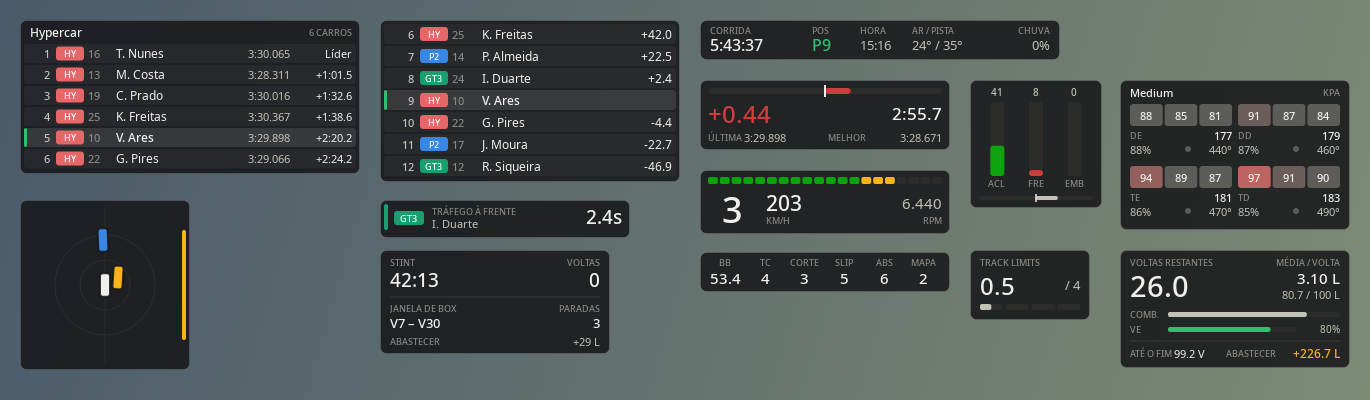
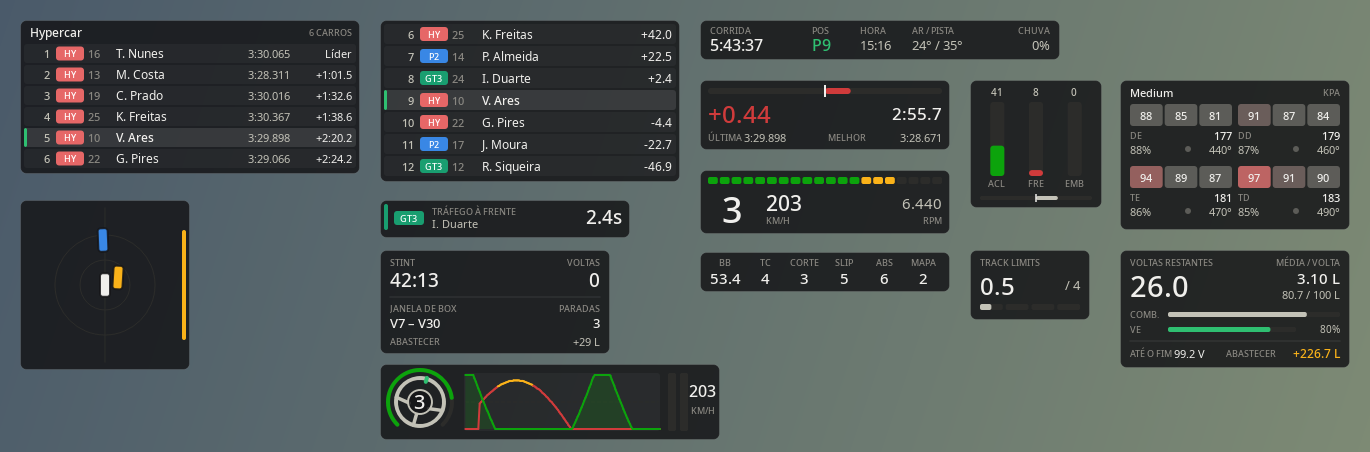
feat(widgets): widget Volante e inputs
Volante que gira conforme o giro configurado, com a marcha no centro e um
anel de RPM que pisca no ponto de troca; ao lado, gráfico rolando do
acelerador e do freio nos últimos segundos, em amarelo quando ABS ou TC
atuam, e as barras atuais com a velocidade. Desligado por padrão.

Entra na v0.3.0-beta.1 (CHANGELOG e roteiro de teste atualizados).

diff --git a/dmt_overlay/widgets/volante.py b/dmt_overlay/widgets/volante.py
@@ -1,0 +1,153 @@
+from __future__ import annotations
+
+from collections import deque
+
+from PySide6.QtCore import QPointF, QRectF, Qt
+from PySide6.QtGui import QColor, QPainter, QPainterPath, QPen
+
+from .. import tema
+from .base import CENTRO, Opcao, WidgetOverlay, barra, rotulo, texto
+from .motor import nome_marcha
+
+# Pontos guardados por segundo de gráfico; o widget recebe mais quadros que isso.
+AMOSTRAS_POR_SEGUNDO = 30
+# Com folga: o timer de 30 Hz bate a cada ~33 ms e não pode perder um quadro sim, outro não.
+INTERVALO_AMOSTRA = 0.8 / AMOSTRAS_POR_SEGUNDO
+
+
+def angulo_volante(volante: float, giro: float) -> float:
+    """Graus para desenhar o volante: -1..1 do jogo vira metade do giro para cada lado."""
+    return max(-1.0, min(1.0, volante)) * giro / 2
+
+
+def cor_rpm(fracao: float, troca: float) -> QColor:
+    if fracao >= troca * 0.97:
+        return tema.CRITICO
+    if fracao >= troca * 0.85:
+        return tema.ALERTA
+    return tema.BOM
+
+
+class Volante(WidgetOverlay):
+    nome = "volante"
+    titulo = "Volante e inputs"
+    largura = 340
+    altura = 76
+    posicao_padrao = (790, 960)
+    ativo_padrao = False
+    opcoes_padrao = {"janela": 5.0, "giro": 540, "luz_troca": 0.94, "unidade_velocidade": "kmh"}
+    descricao = "Volante girando com a marcha no centro, anel de RPM e o gráfico do acelerador e freio nos últimos segundos."
+    opcoes = {
+        "janela": Opcao("Tempo no gráfico", "Quantos segundos de acelerador e freio aparecem.", 2, 10, 1, " s"),
+        "giro": Opcao("Giro do volante", "Use o mesmo do carro no jogo para o desenho bater.", 180, 1080, 10, "°"),
+        "luz_troca": Opcao("Luz de troca", "Porcentagem do RPM máximo em que o anel pisca.", 80, 99, 1, "%", fator=100),
+        "unidade_velocidade": Opcao("Velocidade em", escolhas=(("kmh", "km/h"), ("mph", "mph"))),
+    }
+
+    def __init__(self, *args, **kwargs) -> None:
+        self._historico: deque[tuple[float, float, float, bool, bool]] = deque()
+        super().__init__(*args, **kwargs)
+
+    def reconfigurar(self) -> None:
+        self._historico.clear()
+        super().reconfigurar()
+
+    def preparar(self, quadro):
+        j = quadro.estado.jogador
+        agora = quadro.instante
+        janela = self.config["janela"]
+        if not self._historico or agora - self._historico[-1][0] >= INTERVALO_AMOSTRA or agora < self._historico[-1][0]:
+            self._historico.append((agora, j.acelerador, j.freio, j.tc_ativo, j.abs_ativo))
+        while self._historico and (agora - self._historico[0][0] > janela or self._historico[0][0] > agora):
+            self._historico.popleft()
+        # Posição no gráfico de 0 (mais antigo) a 1 (agora), arredondada para não redesenhar à toa.
+        pontos = tuple(
+            (round(1 - (agora - t) / janela, 3), round(a, 2), round(f, 2), tc, abs_)
+            for t, a, f, tc, abs_ in self._historico
+        )
+        fator = 3.6 if self.config["unidade_velocidade"] == "kmh" else 2.23694
+        fracao = j.rpm / j.rpm_max if j.rpm_max > 0 else 0.0
+        piscar = fracao >= self.config["luz_troca"] and int(agora * 8) % 2 == 0
+        return (
+            round(angulo_volante(j.volante, self.config["giro"])),
+            j.marcha,
+            round(fracao, 3),
+            piscar,
+            round(j.acelerador, 2),
+            round(j.freio, 2),
+            round(j.velocidade * fator),
+            pontos,
+        )
+
+    def desenhar(self, p: QPainter, dados) -> None:
+        angulo, marcha, fracao, piscar, acel, freio, velocidade, pontos = dados
+        self._desenhar_volante(p, QPointF(40, self.altura / 2), angulo, marcha, fracao, piscar)
+        self._desenhar_grafico(p, QRectF(84, 9, 196, self.altura - 18), pontos)
+        topo, base = 9.0, self.altura - 9.0
+        barra(p, QRectF(288, topo, 8, base - topo), acel, tema.ACELERADOR, vertical=True, raio=2)
+        barra(p, QRectF(300, topo, 8, base - topo), freio, tema.FREIO, vertical=True, raio=2)
+        texto(p, QRectF(308, 14, 30, 26), str(velocidade), tema.TEXTO, 12, True, CENTRO)
+        rotulo(p, QRectF(308, 40, 30, 12), "km/h" if self.config["unidade_velocidade"] == "kmh" else "mph", CENTRO)
+
+    def _desenhar_volante(self, p: QPainter, centro: QPointF, angulo: float, marcha: int, fracao: float, piscar: bool) -> None:
+        raio_anel = 32.0
+        caixa_anel = QRectF(centro.x() - raio_anel, centro.y() - raio_anel, raio_anel * 2, raio_anel * 2)
+        # Anel de RPM: 270° abrindo embaixo, enche no sentido horário.
+        p.setBrush(Qt.BrushStyle.NoBrush)
+        p.setPen(QPen(tema.TRILHO, 4, Qt.PenStyle.SolidLine, Qt.PenCapStyle.RoundCap))
+        p.drawArc(caixa_anel, 225 * 16, -270 * 16)
+        if fracao > 0:
+            troca = self.config["luz_troca"]
+            cor = (tema.CRITICO if piscar else tema.TRILHO) if fracao >= troca else cor_rpm(fracao, troca)
+            p.setPen(QPen(cor, 4, Qt.PenStyle.SolidLine, Qt.PenCapStyle.RoundCap))
+            p.drawArc(caixa_anel, 225 * 16, round(-270 * 16 * min(1.0, fracao / troca)))
+
+        p.save()
+        p.translate(centro)
+        p.rotate(angulo)
+        r = 24.0
+        p.setPen(QPen(tema.TEXTO_SECUNDARIO, 4))
+        p.drawEllipse(QPointF(0, 0), r, r)
+        p.setPen(QPen(tema.TEXTO_SECUNDARIO, 3.5, Qt.PenStyle.SolidLine, Qt.PenCapStyle.RoundCap))
+        for x1, y1, x2, y2 in ((-r, 2, -10, 4), (r, 2, 10, 4), (0, 12, 0, r)):
+            p.drawLine(QPointF(x1, y1), QPointF(x2, y2))
+        # Marca de centro no topo do aro, para ver o quanto o volante girou.
+        p.setPen(QPen(tema.DESTAQUE, 4, Qt.PenStyle.SolidLine, Qt.PenCapStyle.RoundCap))
+        p.drawLine(QPointF(0, -r - 1), QPointF(0, -r + 3))
+        # Miolo sólido para a marcha não brigar com os raios.
+        p.setPen(QPen(tema.TEXTO_SECUNDARIO, 2))
+        p.setBrush(tema.FUNDO_FIM)
+        p.drawEllipse(QPointF(0, 0), 12, 12)
+        p.restore()
+
+        cor_marcha = tema.CRITICO if piscar else tema.TEXTO
+        texto(p, QRectF(centro.x() - 12, centro.y() - 12, 24, 22), nome_marcha(marcha), cor_marcha, 15, True, CENTRO)
+
+    def _desenhar_grafico(self, p: QPainter, area: QRectF, pontos) -> None:
+        p.setPen(Qt.PenStyle.NoPen)
+        p.setBrush(tema.FUNDO_LINHA)
+        p.drawRoundedRect(area, 3, 3)
+        p.setPen(QPen(tema.TRILHO, 1, Qt.PenStyle.DashLine))
+        meio = area.top() + area.height() / 2
+        p.drawLine(QPointF(area.left() + 2, meio), QPointF(area.right() - 2, meio))
+        if len(pontos) < 2:
+            return
+
+        def ponto(x: float, valor: float) -> QPointF:
+            return QPointF(area.left() + x * area.width(), area.bottom() - 2 - valor * (area.height() - 4))
+
+        # Preenchimento leve embaixo do acelerador, para ler de longe.
+        preenchido = QPainterPath(ponto(pontos[0][0], 0))
+        for x, a, *_ in pontos:
+            preenchido.lineTo(ponto(x, a))
+        preenchido.lineTo(ponto(pontos[-1][0], 0))
+        cor_fundo = QColor(tema.ACELERADOR)
+        cor_fundo.setAlpha(45)
+        p.fillPath(preenchido, cor_fundo)
+
+        # Freio e acelerador; o trecho fica amarelo quando o ABS ou o TC está atuando.
+        for indice, cor, indice_alerta in ((2, tema.FREIO, 4), (1, tema.ACELERADOR, 3)):
+            for anterior, atual in zip(pontos, pontos[1:], strict=False):
+                alerta = atual[indice_alerta]
+                p.setPen(QPen(tema.ALERTA if alerta else cor, 2, Qt.PenStyle.SolidLine, Qt.PenCapStyle.RoundCap))
+                p.drawLine(ponto(anterior[0], anterior[indice]), ponto(atual[0], atual[indice]))

diff --git a/scripts/previa.py b/scripts/previa.py
@@ -32,6 +32,7 @@ LAYOUT = {
     "multiclasse": (380, 200),
     "stint": (380, 250),
     "radar": (20, 200),
+    "volante": (380, 364),
 }
 
 
@@ -69,7 +70,7 @@ def main() -> None:
     quadro = Quadro(estado, resumo, 0.0, estrategia.atualizar(estado, resumo))
 
     config = Config(Path(tempfile.mkdtemp()) / "config.json")
-    largura, altura = round(1370 * escala), round(400 * escala)
+    largura, altura = round(1370 * escala), round(452 * escala)
     tela = QPixmap(largura, altura)
     p = QPainter(tela)
     gradiente = QLinearGradient(0, 0, largura, altura)
@@ -78,7 +79,17 @@ def main() -> None:
     p.fillRect(tela.rect(), gradiente)
     for classe in WIDGETS:
         widget = classe(config.widget(classe.nome, classe.padrao()), escala)
-        widget.atualizar(quadro)
+        if classe.nome == "volante":
+            # O gráfico precisa de alguns segundos de histórico para aparecer na prévia.
+            for i in range(150):
+                t = i / 30
+                estado.jogador.acelerador = max(0.0, min(1.0, 1.4 - abs(math.sin(t * 0.9)) * 2.2))
+                estado.jogador.freio = max(0.0, math.sin(t * 0.9 + 0.4) * 1.3 - 0.4) if math.sin(t * 0.9) > 0.3 else 0.0
+                estado.jogador.abs_ativo = estado.jogador.freio > 0.8
+                estado.jogador.volante = 0.35 * math.sin(t * 1.3)
+                widget.atualizar(Quadro(estado, resumo, t))
+        else:
+            widget.atualizar(quadro)
         x, y = LAYOUT[classe.nome]
         imagem = widget.grab()
         p.drawPixmap(QPoint(round(x * escala), round(y * escala)), imagem)

diff --git a/tests/test_volante.py b/tests/test_volante.py
@@ -1,0 +1,48 @@
+import os
+
+import pytest
+
+os.environ.setdefault("QT_QPA_PLATFORM", "offscreen")
+
+from PySide6.QtWidgets import QApplication  # noqa: E402
+
+from dmt_overlay.provedor import Quadro  # noqa: E402
+from dmt_overlay.telemetria.modelos import Estado, Jogador  # noqa: E402
+from dmt_overlay.widgets.volante import Volante, angulo_volante  # noqa: E402
+
+
+@pytest.fixture(scope="module")
+def app():
+    return QApplication.instance() or QApplication([])
+
+
+def quadro(t, acel=0.0, freio=0.0, volante=0.0):
+    jogador = Jogador(acelerador=acel, freio=freio, volante=volante, marcha=3, rpm=7000, rpm_max=8000)
+    return Quadro(Estado(jogador=jogador), instante=t)
+
+
+def test_angulo_do_volante():
+    assert angulo_volante(0.0, 540) == 0
+    assert angulo_volante(1.0, 540) == 270
+    assert angulo_volante(-0.5, 360) == -90
+    assert angulo_volante(3.0, 360) == 180
+
+
+def test_grafico_guarda_so_a_janela(app):
+    widget = Volante(Volante.padrao(), 1.0)
+    for i in range(300):
+        widget.atualizar(quadro(i / 30, acel=1.0))
+    pontos = widget._dados[-1]
+    assert 140 <= len(pontos) <= 152
+    assert pontos[-1][0] == 1.0 and pontos[0][0] >= 0.0
+    assert not widget.grab().isNull()
+
+
+def test_mudar_janela_limpa_o_historico(app):
+    widget = Volante(Volante.padrao(), 1.0)
+    for i in range(60):
+        widget.atualizar(quadro(i / 30))
+    widget.config["janela"] = 2.0
+    widget.reconfigurar()
+    widget.atualizar(quadro(10.0))
+    assert len(widget._dados[-1]) == 1

diff --git a/dmt_overlay/widgets/__init__.py b/dmt_overlay/widgets/__init__.py
@@ -11,6 +11,7 @@ from .relativo import Relativo
 from .sessao import Sessao
 from .stint import Stint
 from .track_limits import TrackLimits
+from .volante import Volante
 
 WIDGETS = (
     Relativo,
@@ -18,6 +19,7 @@ WIDGETS = (
     Delta,
     Motor,
     Pedais,
+    Volante,
     Combustivel,
     Pneus,
     Sessao,

diff --git a/CHANGELOG.md b/CHANGELOG.md
@@ -12,12 +12,14 @@ Versão de teste com tudo da 0.3.0. Roteiro para uma sessão só (uns 30 minutos
 1. Bandeja → **Configurações…** → Geral → Fonte de dados: **Demonstração**. Destrave, arraste uns widgets e trave.
 2. Aparência → Tema **Transmissão** (e volte, se quiser).
 3. Página **Relativo** → Carros de cada lado: 5. O widget deve crescer na hora.
+   Na página **Volante e inputs**, ligue o widget e ajuste o **Giro do volante** para o do seu carro.
 4. **Transmissão** → Ligar HUD → **Abrir no navegador**. A torre e a caixa de briga devem aparecer. Se for usar, adicione no OBS como Fonte de navegador (1920×1080).
 
 **No LMU (treino livre com IA)**
 5. Geral → Fonte de dados: **Le Mans Ultimate**. Na pista, teste `Ctrl+Shift+H` e `Ctrl+Shift+L` com o jogo em foco.
 6. Faça 3 voltas, pare no box para abastecer e faça mais 2. Depois, **Abrir voltas gravadas**: o tempo de cada volta deve bater com o do jogo, e depois do abastecimento o `stint` vira 2.
 7. Com o HUD aberto, confira torre, nomes das equipes e intervalo para o carro da frente.
+   No widget do volante, confira se ele gira para o lado certo e se o gráfico acompanha os pedais.
 8. Ligue **Layout separado por classe**, entre com um carro de outra classe, arrume diferente, e volte ao primeiro carro.
 
 Deu problema? Abra uma issue com o `dmt-overlay.log` (Geral → Abrir pasta de configuração).
@@ -29,6 +31,7 @@ Deu problema? Abra uma issue com o `dmt-overlay.log` (Geral → Abrir pasta de c
 - Janela de configurações: opções gerais, aparência, atalhos e uma página por widget, sem editar o `config.json`.
 - Layout separado por classe: posições e widgets ligados de cada classe, trocando sozinho ao mudar de carro (desligado por padrão).
 - Tema Transmissão, com visual de TV: azul-marinho, fonte condensada, sobrenomes em caixa alta e faixa da classe.
+- Widget **Volante e inputs** (desligado por padrão): volante que gira com a marcha no centro, anel de RPM e gráfico do acelerador e freio nos últimos segundos, com ABS e TC em amarelo.
 - HUD de transmissão para OBS: torre de classificação por classe e caixa de briga com o carro da frente, servida pelo próprio app (Configurações → Transmissão).
 
 ### Mudanças

diff --git a/README.md b/README.md
@@ -33,6 +33,7 @@
 | **Track limits** | Pontos de track limits acumulados e quanto falta para a punição. |
 | **Stint e estratégia** | Tempo e voltas do stint, janela de box (primeira e última volta para parar), paradas restantes e quanto abastecer de combustível e energia virtual. |
 | **Radar** | Só aparece com carro por perto (15 m por padrão, ajustável): mostra os carros ao redor na cor da classe e acende a lateral quando há alguém lado a lado. |
+| **Volante e inputs** | Volante que gira com o seu, com a marcha no centro e um anel de RPM, mais o gráfico do acelerador e do freio nos últimos segundos (amarelo quando ABS ou TC atuam). Vem desligado. |
 | **Alerta multiclasse** | Só aparece quando precisa: carro mais rápido de outra classe chegando por trás, ou tráfego mais lento logo à frente. |
 
 ## Instalação
